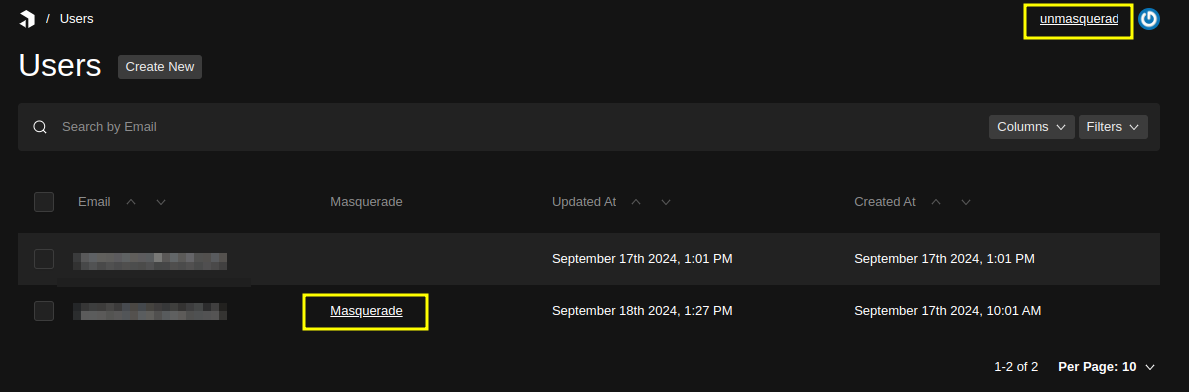
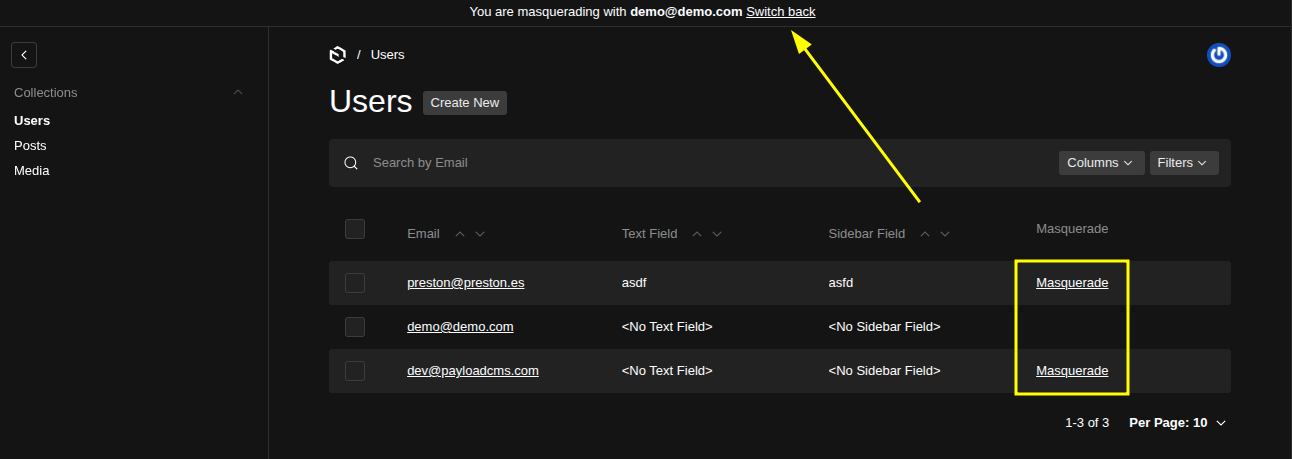
feat(admin): add MasqueradeForm block to beforeNavLinks
- Introduced `MasqueradeForm` React component to allow admins to select a user
  to masquerade as, shown in the admin sidebar before navigation links.
- Added `enableBlockForm` plugin option (default: true) to control this feature.
- Updated import map and UI exports to include `MasqueradeForm`.
- Updated screenshot to reflect new UI.
- Bumped version to 1.3.0.

diff --git a/src/ui/SelectUser.tsx b/src/ui/SelectUser.tsx
@@ -1,0 +1,37 @@
+"use client"
+
+import { SelectInput } from "@payloadcms/ui"
+import { useRouter } from "next/navigation.js"
+import { use } from "react"
+
+interface Props {
+  meId: number | string
+  usersPromise: Promise<any>
+}
+
+export const SelectUser = ({meId, usersPromise}: Props) => {
+  const router = useRouter()
+  const { docs } = use(usersPromise)
+
+  return (
+      <SelectInput
+        name="user"
+        onChange={(option) => {
+          const selectedValue = (Array.isArray(option) ? option[0]?.value : option?.value) as string || ''
+          // setValue(selectedValue)
+          // /api/users/${idUser}/masquerade
+          router.push(`/api/users/${selectedValue}/masquerade`)
+        }}
+        options={[
+          {label: 'Select a user', value: ''},
+          ...docs.map((user: any) => ({
+            label: user.email || user.id, // Assuming users have an 'email' field
+            value: user.id, // Assuming users have an 'id' field
+          })).filter((user: any) => user.value !== meId) // Exclude the current user,
+        ]}
+        path=""
+        placeholder="Select a user to masquerade as"
+        style={{ width: '100%', marginBottom: '1rem' }}
+      />
+  )
+}

diff --git a/dev/app/(payload)/admin/importMap.js b/dev/app/(payload)/admin/importMap.js
@@ -1,9 +1,11 @@
 import { MasqueradeCell as MasqueradeCell_d4add19c08047af2d7c2e6635227b358 } from 'payload-plugin-masquerade/ui'
 import { NullField as NullField_d4add19c08047af2d7c2e6635227b358 } from 'payload-plugin-masquerade/ui'
 import { Unmasquerade as Unmasquerade_d4add19c08047af2d7c2e6635227b358 } from 'payload-plugin-masquerade/ui'
+import { MasqueradeForm as MasqueradeForm_d4add19c08047af2d7c2e6635227b358 } from 'payload-plugin-masquerade/ui'
 
 export const importMap = {
   "payload-plugin-masquerade/ui#MasqueradeCell": MasqueradeCell_d4add19c08047af2d7c2e6635227b358,
   "payload-plugin-masquerade/ui#NullField": NullField_d4add19c08047af2d7c2e6635227b358,
-  "payload-plugin-masquerade/ui#Unmasquerade": Unmasquerade_d4add19c08047af2d7c2e6635227b358
+  "payload-plugin-masquerade/ui#Unmasquerade": Unmasquerade_d4add19c08047af2d7c2e6635227b358,
+  "payload-plugin-masquerade/ui#MasqueradeForm": MasqueradeForm_d4add19c08047af2d7c2e6635227b358
 }

diff --git a/src/index.ts b/src/index.ts
@@ -12,6 +12,11 @@ export interface PluginTypes {
    */
   authCollection?: string
   /**
+   * Enable block form
+   * @default true
+   */
+  enableBlockForm?: boolean
+  /**
    * Enable or disable plugin
    * @default false
    */
@@ -31,6 +36,12 @@ export const masqueradePlugin =
       ...(config.admin || {}),
       components: {
         ...(config.admin?.components || {}),
+        ...(pluginOptions.enableBlockForm !== false && {
+          beforeNavLinks: [
+            ...(config.admin?.components?.beforeNavLinks || []),
+            'payload-plugin-masquerade/ui#MasqueradeForm',
+          ],
+        }),
         header: [
           ...(config.admin?.components?.header || []),
           'payload-plugin-masquerade/ui#Unmasquerade',

diff --git a/src/ui/MasqueradeForm.tsx b/src/ui/MasqueradeForm.tsx
@@ -1,0 +1,25 @@
+import type { PayloadServerReactComponent, SanitizedConfig } from "payload"
+
+import { cookies } from "next/headers.js"
+
+import { SelectUser } from "./SelectUser.js"
+
+export const MasqueradeForm: PayloadServerReactComponent<
+  SanitizedConfig['admin']['components']['beforeNavLinks'][0]
+> = async (props) => {
+  const cc = await cookies()
+  const isMasquerading = cc.get('masquerade')?.value
+
+  const { payload, user: { id: meId } } = props
+  const usersPromise = payload.find({
+    collection: 'users',
+    limit: 0,
+  })
+
+  if (isMasquerading) {
+    return null // Don't show the form if already masquerading
+  }
+  return (
+    <SelectUser meId={meId} usersPromise={usersPromise} />
+  )
+}

diff --git a/src/ui/index.ts b/src/ui/index.ts
@@ -1,3 +1,4 @@
 export { Unmasquerade } from '../actions/Unmasquerade.js'
 export { MasqueradeCell } from './Masquerade.js'
+export { MasqueradeForm } from './MasqueradeForm.js'
 export { NullField } from './NullField.js'

diff --git a/dev/payload.config.ts b/dev/payload.config.ts
@@ -63,6 +63,7 @@ const buildConfigWithMemoryDB = async () => {
     plugins: [
       masqueradePlugin({
         authCollection: Users.slug,
+        enableBlockForm: true,
         enabled: true,
       }),
     ],
